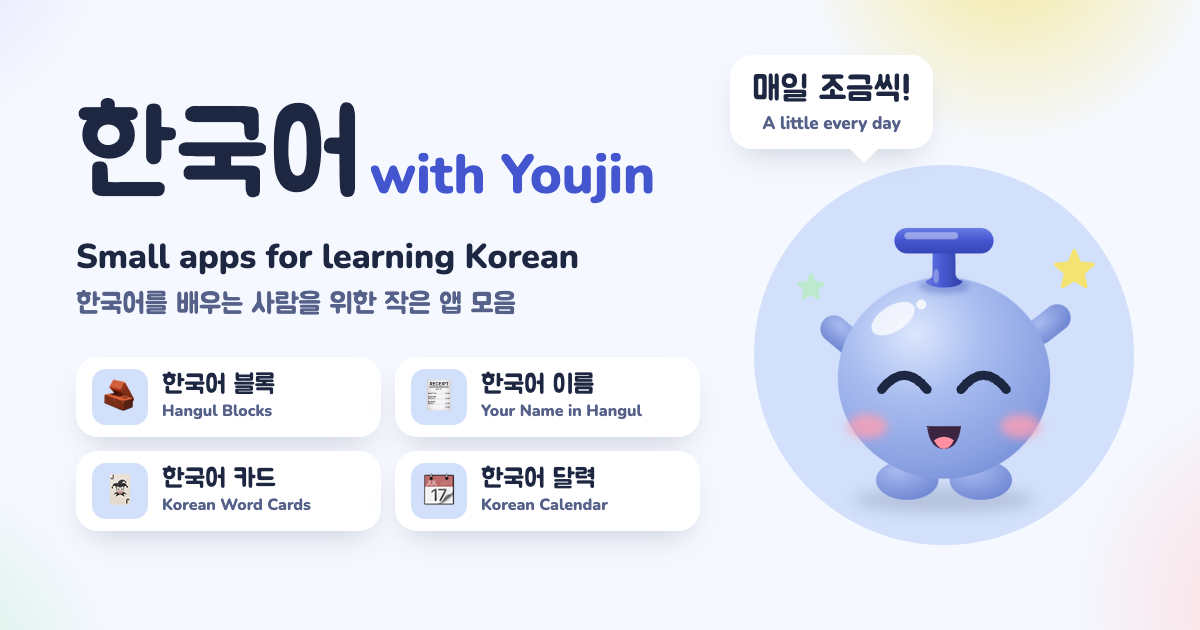
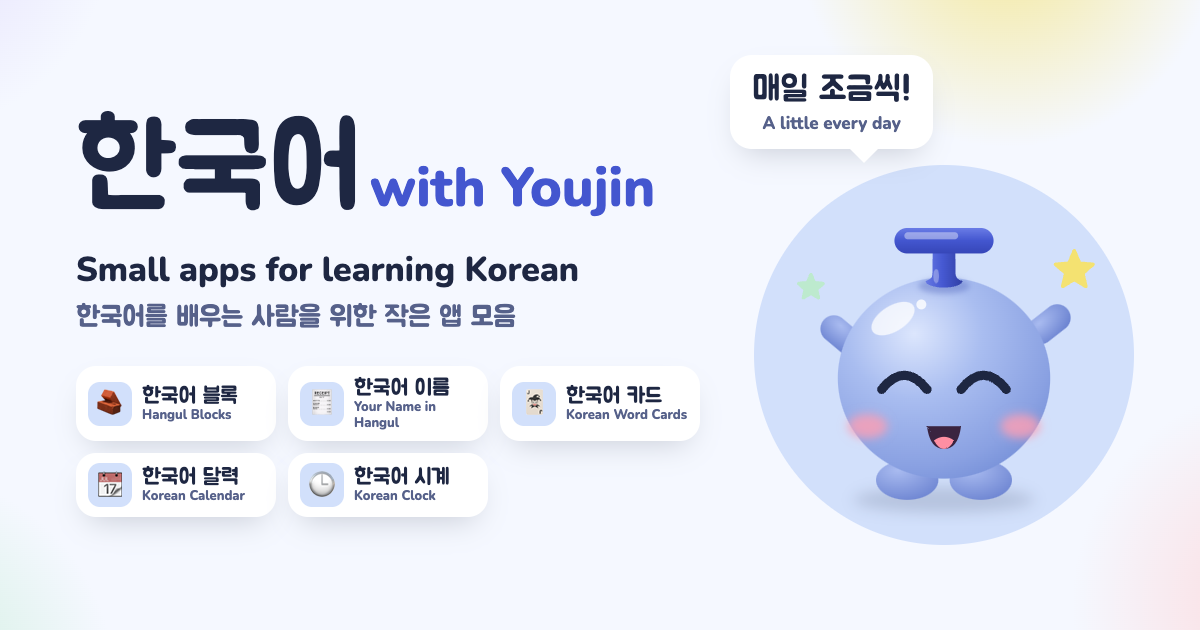
홈 공유 그림: 앱 다섯 개 · alt · description
- build_og.py: 3열 배치로 여섯까지 (더 많으면 다섯 + 「+N」). apps.ts 에
  필드가 늘어(#48) slug 바로 뒤에 ko 가 오지 않아 앱을 못 읽던 것도 고침 —
  필드 순서와 상관없이 읽는다
- seo.ts: og alt 를 앱 목록에서 만든다 (그림과 같은 규칙), description 에 이름 앱
- 테스트: alt 가 그림의 앱을 다 적는지, 설명에 앱마다 하는 일이 있는지

Closes #46

Changed region(s): [[0.0617, 0.573, 0.5858, 0.8444], [0.0617, 0.1508, 0.555, 0.3619], [0.0617, 0.3921, 0.4933, 0.5429]]

diff --git a/shared/site.test.ts b/shared/site.test.ts
@@ -6,7 +6,7 @@ import { renderToStaticMarkup } from "react-dom/server";
 import { describe, expect, it, vi } from "vitest";
 import { analyticsScript, track } from "./analytics";
 import { APPS } from "./apps";
-import { headTags, jsonLd, jsonLdText, llmsTxt, pageMeta, prerenderHtml, robotsTxt, sitemapXml } from "./seo";
+import { headTags, jsonLd, jsonLdText, llmsTxt, ogAlt, pageMeta, prerenderHtml, robotsTxt, sitemapXml } from "./seo";
 import { SITE, SUBSCRIBE_COPY, type SiteConfig } from "./site";
 import { subscribeEmail, subscribeEndpoint } from "./subscribe";
 import { Products } from "./ui/Products";
@@ -201,5 +201,19 @@ describe("GEO — 자바스크립트 없이 읽히는 것", () => {
 describe("주소", () => {
   it("앱 주소(slug)는 그대로", () => {
     expect(APPS.map((a) => a.slug)).toEqual(["hangul-blocks", "hangul-name", "korean-cards", "calendar-practice", "korean-clock"]);
+  });
+});
+
+describe("홈 공유 그림 설명 (#46)", () => {
+  it("그림에 있는 앱을 모두 적는다 — 앱이 늘어도 그림과 같은 규칙", () => {
+    const alt = pageMeta("").image!.alt;
+    expect(alt).toContain(`앱 ${APPS.length}개`);
+    for (const a of APPS.slice(0, APPS.length <= 6 ? APPS.length : 5)) expect(alt).toContain(a.ko);
+    const many = Array.from({ length: 8 }, (_, i) => ({ ...APPS[0], ko: `앱${i}` }));
+    expect(ogAlt(many)).toBe("이응이와 앱 8개 — 앱0, 앱1, 앱2, 앱3, 앱4 외 3개");
+  });
+  it("홈 설명에 앱마다 하는 일이 들어 있다", () => {
+    const d = pageMeta("").description;
+    for (const w of ["Hangul blocks", "your name", "flashcards", "dates", "time"]) expect(d).toContain(w);
   });
 });

diff --git a/shared/seo.ts b/shared/seo.ts
@@ -19,12 +19,19 @@ import { SITE, type SiteConfig } from "./site";
 
 export type HeadTag = { tag: "title" | "meta" | "link"; attrs?: Record<string, string>; children?: string };
 
+/** 홈 공유 그림 설명 — 그림(tools/home/build_og.py)과 같은 규칙: 여섯까지 이름, 더 많으면 다섯 + 나머지 수 */
+export function ogAlt(apps: AppInfo[]): string {
+  const shown = apps.length <= 6 ? apps : apps.slice(0, 5);
+  const rest = apps.length - shown.length;
+  return `이응이와 앱 ${apps.length}개 — ${shown.map((a) => a.ko).join(", ")}${rest ? ` 외 ${rest}개` : ""}`;
+}
+
 const HOME = {
   searchTitle: "Free Apps for Learning Korean",
   /** tools/home/build_og.py 로 만든다 (#18) */
-  og: { image: "/og.png", alt: "이응이와 네 가지 앱 — 한국어 블록, 한국어 카드, 한국어 달력, 한국어 시계" },
+  og: { image: "/og.png", alt: ogAlt(APPS) },
   description:
-    "Free little apps for learning Korean: build Hangul blocks, learn words with flashcards, read dates and tell time. Made by Youjin, a Korean teacher in Seoul. 한국어를 배우는 사람을 위한 작은 앱 모음.",
+    "Free little apps for learning Korean: build Hangul blocks, write your name in Hangul, learn words with flashcards, read dates and tell time. Made by Youjin, a Korean teacher in Seoul. 한국어를 배우는 사람을 위한 작은 앱 모음.",
 };
 /** 사이트를 만든 사람 — 구조화 데이터의 저자. 구독 폼 문구와 같은 사실만 */
 const AUTHOR = { name: "Youjin", jobTitle: "Korean teacher", description: "A Korean teacher in Seoul" }; // llmsTxt 에도 같은 말

diff --git a/tools/home/build_og.py b/tools/home/build_og.py
@@ -39,17 +39,31 @@ ieung = read("shared", "ui", "ieung-data.ts")
 DEFS = ts_string(ieung, r'^export const IEUNG_DEFS = (".*");$')
 YAY = ts_string(ieung, r'^\s*yay: (".*"),?$')
 
-APPS = re.findall(r'slug: "([^"]+)",\s*ko: "([^"]+)",\s*en: "([^"]+)",\s*emoji: "([^"]+)"', read("shared", "apps.ts"))
-if len(APPS) < 4:
+def field(block, name):
+    m = re.search(rf'^\s*{name}: "([^"]+)",', block, re.M)
+    return m.group(1) if m else None
+
+
+# 앱 하나 = "slug:" 로 시작하는 덩어리. 필드 순서와 상관없이 읽는다
+APPS = [
+    (field(b, "slug"), field(b, "ko"), field(b, "en"), field(b, "emoji"))
+    for b in re.split(r'(?=^\s*slug: ")', read("shared", "apps.ts"), flags=re.M)[1:]
+]
+if not APPS or not all(all(a) for a in APPS):
     raise SystemExit("shared/apps.ts 에서 앱을 못 읽었어요")
+
+# 3열로 여섯까지. 더 많으면 다섯 + 「+N」 칸
+MAX = 6
+shown = APPS if len(APPS) <= MAX else APPS[: MAX - 1]
+more = len(APPS) - len(shown)
 
 tokens = "file://" + os.path.join(ROOT, "shared", "tokens", "tokens.css")
 ieung_css = "file://" + os.path.join(ROOT, "shared", "ui", "ieung.css")
 
 chips = "\n".join(
     f"""<li><span class="tile">{e}</span><span><b>{html.escape(ko)}</b><small>{html.escape(en)}</small></span></li>"""
-    for _, ko, en, e in APPS[:4]
-)
+    for _, ko, en, e in shown
+) + (f"""<li class="more"><b>+{more}</b><small>more apps</small></li>""" if more else "")
 
 PAGE = f"""<!doctype html>
 <html lang="ko" data-theme="light"><head><meta charset="utf-8">
@@ -75,11 +89,12 @@ PAGE = f"""<!doctype html>
   h1 em {{ font-style: normal; font-weight: 800; font-size: 54px; color: var(--primary); margin-left: 8px; }}
   .en {{ margin-top: 18px; font-size: 34px; font-weight: 800; }}
   .ko-sub {{ margin-top: 8px; font-family: "Jua"; font-size: 28px; color: var(--muted); }}
-  ul {{ list-style: none; margin-top: 34px; display: grid; grid-template-columns: 1fr 1fr; gap: 14px; }}
-  li {{ display: flex; align-items: center; gap: 14px; background: var(--surface); border-radius: 22px; padding: 12px 16px; box-shadow: var(--shadow-card); }}
-  .tile {{ display: grid; place-items: center; width: 56px; height: 56px; flex: none; border-radius: 14px; background: var(--sky); font-size: 32px; }}
-  li b {{ display: block; font-family: "Jua"; font-weight: 400; font-size: 26px; line-height: 1.1; }}
-  li small {{ display: block; font-size: 16px; font-weight: 800; color: var(--muted); }}
+  ul {{ list-style: none; margin-top: 30px; display: grid; grid-template-columns: repeat(3, 1fr); gap: 12px; }}
+  li {{ display: flex; align-items: center; gap: 10px; background: var(--surface); border-radius: 20px; padding: 10px 12px; box-shadow: var(--shadow-card); }}
+  .tile {{ display: grid; place-items: center; width: 44px; height: 44px; flex: none; border-radius: 12px; background: var(--sky); font-size: 26px; }}
+  li b {{ display: block; font-family: "Jua"; font-weight: 400; font-size: 22px; line-height: 1.1; white-space: nowrap; }}
+  li small {{ display: block; font-size: 13px; font-weight: 800; line-height: 1.2; color: var(--muted); }}
+  li.more {{ flex-direction: column; justify-content: center; }}
   .stage {{ position: relative; height: 520px; }}
   /* 이응이가 서는 sky 바닥 */
   .floor {{ position: absolute; left: 30px; right: 10px; bottom: 30px; height: 380px; border-radius: 50%; background: var(--sky); }}
